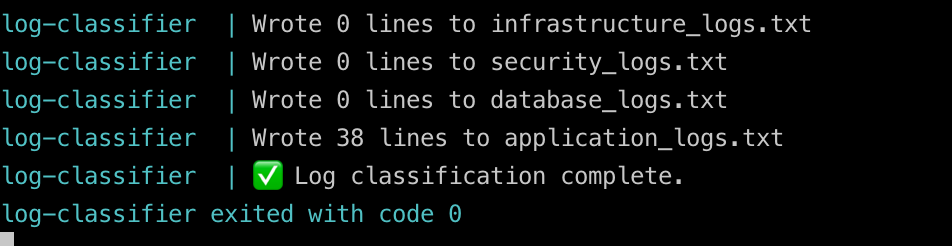
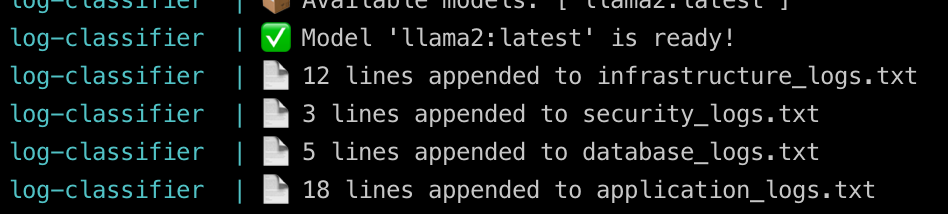
Change script to classify per line

Changed region(s): [[0.0, 0.0, 0.9789, 0.785], [0.0, 0.8131, 0.9177, 1.0]]

diff --git a/log-classifier.py b/log-classifier.py
@@ -7,6 +7,7 @@ import sys
 # Configuration
 OLLAMA_HOST = os.environ.get("OLLAMA_HOST", "http://localhost:11434")
 os.environ["OLLAMA_HOST"] = OLLAMA_HOST
+MODEL_NAME = "llama2"
 CATEGORIES = ["infrastructure", "security", "database", "application"]
 
 # --------------------------------------------------------------------
@@ -51,27 +52,44 @@ def wait_for_model(host, model_name_prefix="llama2", timeout=600, interval=10):
     raise RuntimeError(f"Timeout waiting for model '{model_name_prefix}'")
 
 # --------------------------------------------------------------------
-# Classify a single log line
+# Classify a single log line with improved prompt and fuzzy matching
 # --------------------------------------------------------------------
 def classify_log_line(line, model_name):
     prompt = (
-        f"Classify the following log line into one of these categories: {CATEGORIES}. "
-        f"Return only the category name.\nLog line: {line}"
+        f"Classify the following log line into exactly one of these categories: {CATEGORIES}. "
+        f"Reply with only one word from this list: {', '.join(CATEGORIES)}. "
+        f"Log line: {line}"
     )
     try:
-        response = ollama.chat(model_name, prompt)
-        category = response.strip().lower() if isinstance(response, str) else response.result.strip().lower()
-        if category in CATEGORIES:
-            return category
+        response = ollama.chat(model=model_name, messages=[{"role": "user", "content": prompt}])
+
+        # Extract response text
+        if isinstance(response, dict) and "message" in response and "content" in response["message"]:
+            category = response["message"]["content"].strip().lower()
+        elif isinstance(response, str):
+            category = response.strip().lower()
         else:
-            print(f"Warning: Received unknown category '{category}' from model.")
+            category = str(response).strip().lower()
+
+        # Searching matching
+        if "database" in category:
+            return "database"
+        elif "security" in category:
+            return "security"
+        elif "infra" in category or "network" in category or "system" in category:
+            return "infrastructure"
+        elif "application" in category:
             return "application"
+        else:
+            print(f"⚠ Unknown category '{category}', defaulting to 'application'")
+            return "application"
+
     except Exception as e:
-        print(f"Error classifying line: {e}")
+        print(f"❌ Error classifying line: {e}")
         return "application"
 
 # --------------------------------------------------------------------
-# Process entire log file
+# Process a single log file
 # --------------------------------------------------------------------
 def process_log_file(file_path, model_name):
     categorized_logs = {cat: [] for cat in CATEGORIES}
@@ -82,32 +100,35 @@ def process_log_file(file_path, model_name):
             if not line:
                 continue
             category = classify_log_line(line, model_name)
-            if category in categorized_logs:
-                categorized_logs[category].append(line)
-            else:
-                print(f"Warning: Unknown category '{category}' from line: {line}")
+            categorized_logs[category].append(line)
 
     for cat, lines in categorized_logs.items():
         out_file = f"{cat}_logs.txt"
-        with open(out_file, "w") as f_out:
-            f_out.write("\n".join(lines))
-        print(f"Wrote {len(lines)} lines to {out_file}")
+        with open(out_file, "a") as f_out:
+            f_out.write("\n".join(lines) + "\n")
+        print(f"📄 {len(lines)} lines appended to {out_file}")
+
+# --------------------------------------------------------------------
+# Process multiple log files in a directory
+# --------------------------------------------------------------------
+def process_directory(log_dir, model_name):
+    for filename in os.listdir(log_dir):
+        if filename.endswith(".log") or filename.endswith(".txt"):
+            print(f"🔍 Processing {filename}...")
+            process_log_file(os.path.join(log_dir, filename), model_name)
 
 # --------------------------------------------------------------------
 # Main entry point
 # --------------------------------------------------------------------
 if __name__ == "__main__":
-    if len(sys.argv) != 2:
-        print("Usage: python log-classifier.py <log_file_path>")
-        sys.exit(1)
-
     wait_for_ollama(OLLAMA_HOST)
-    model_name = wait_for_model(OLLAMA_HOST, model_name_prefix="llama2", timeout=900, interval=10)
+    model_name = wait_for_model(OLLAMA_HOST, model_name_prefix=MODEL_NAME, timeout=900, interval=10)
 
-    log_file = sys.argv[1]
-    if not os.path.isfile(log_file):
-        print(f"Log file {log_file} does not exist!")
-        sys.exit(1)
+    log_path = sys.argv[1] if len(sys.argv) > 1 else "/logs/"
 
-    process_log_file(log_file, model_name)
-    print("✅ Log classification complete.")
+    if os.path.isdir(log_path):
+        process_directory(log_path, model_name)
+    elif os.path.isfile(log_path):
+        process_log_file(log_path, model_name)
+    else:
+        print(f"❌ Invalid path: {log_path}")
